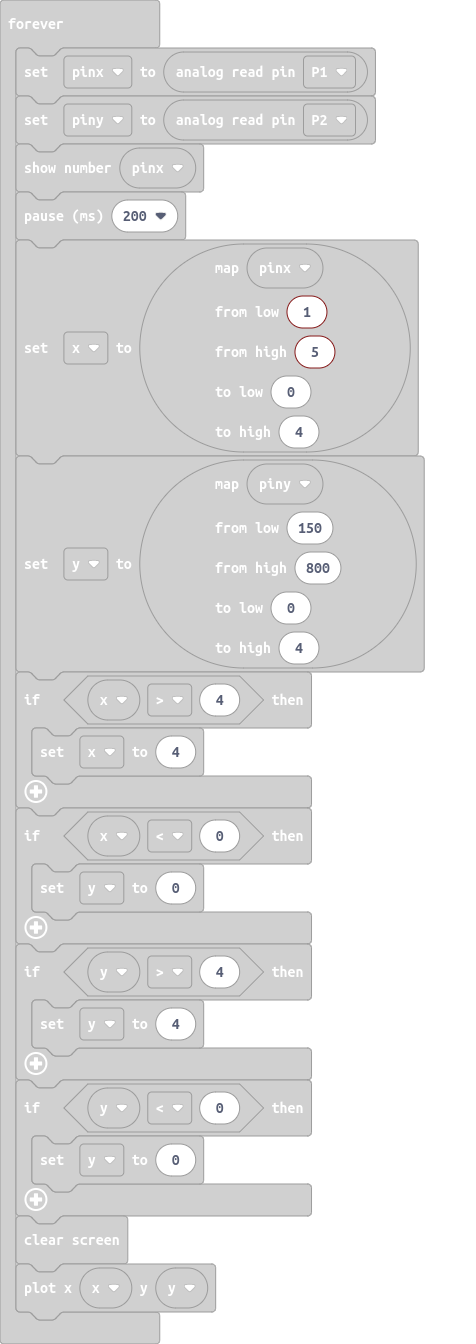
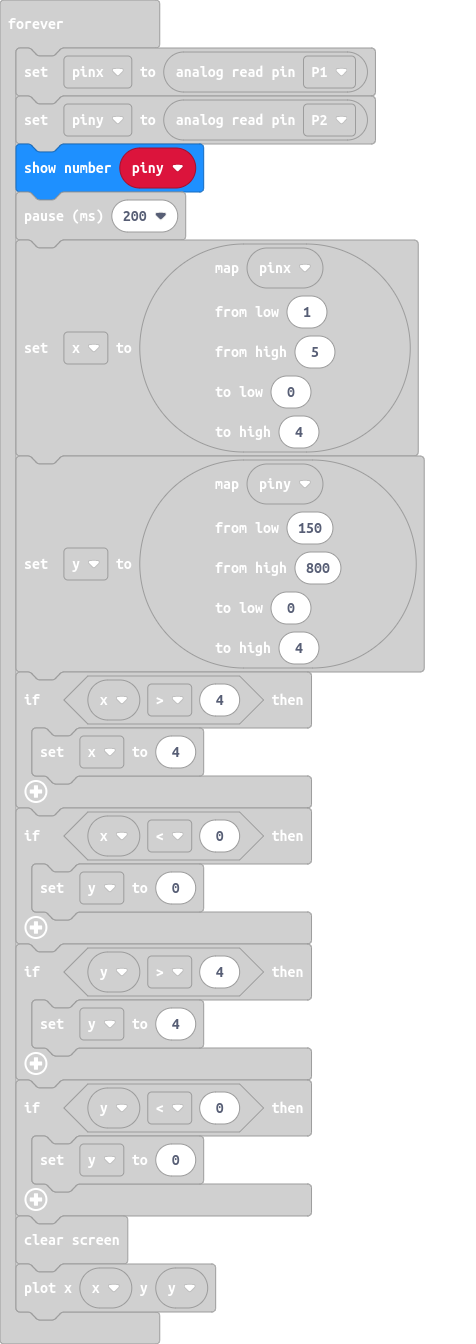
debug y

diff --git a/main.ts b/main.ts
@@ -5,7 +5,7 @@ let y = 0
 basic.forever(function () {
     pinx = pins.analogReadPin(AnalogPin.P1)
     piny = pins.analogReadPin(AnalogPin.P2)
-    basic.showNumber(pinx)
+    basic.showNumber(piny)
     basic.pause(200)
     x = pins.map(
     pinx,
